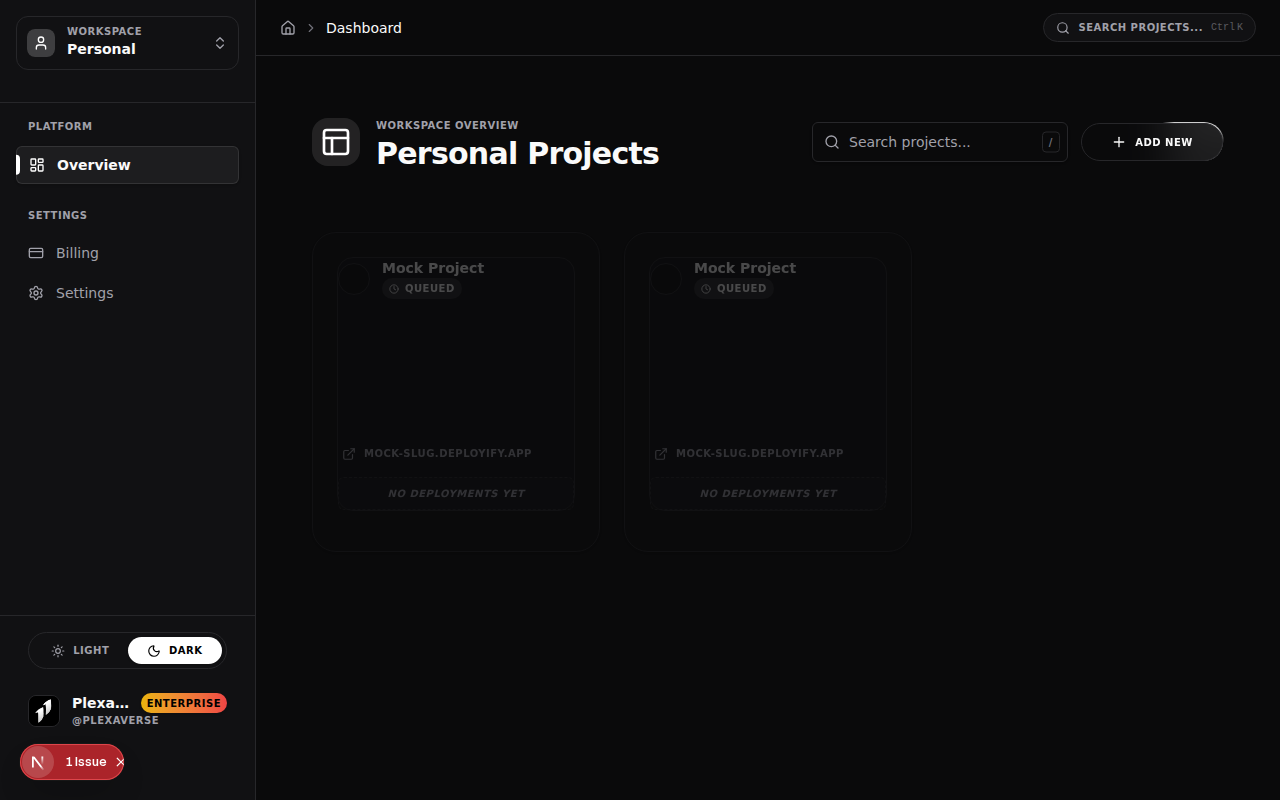
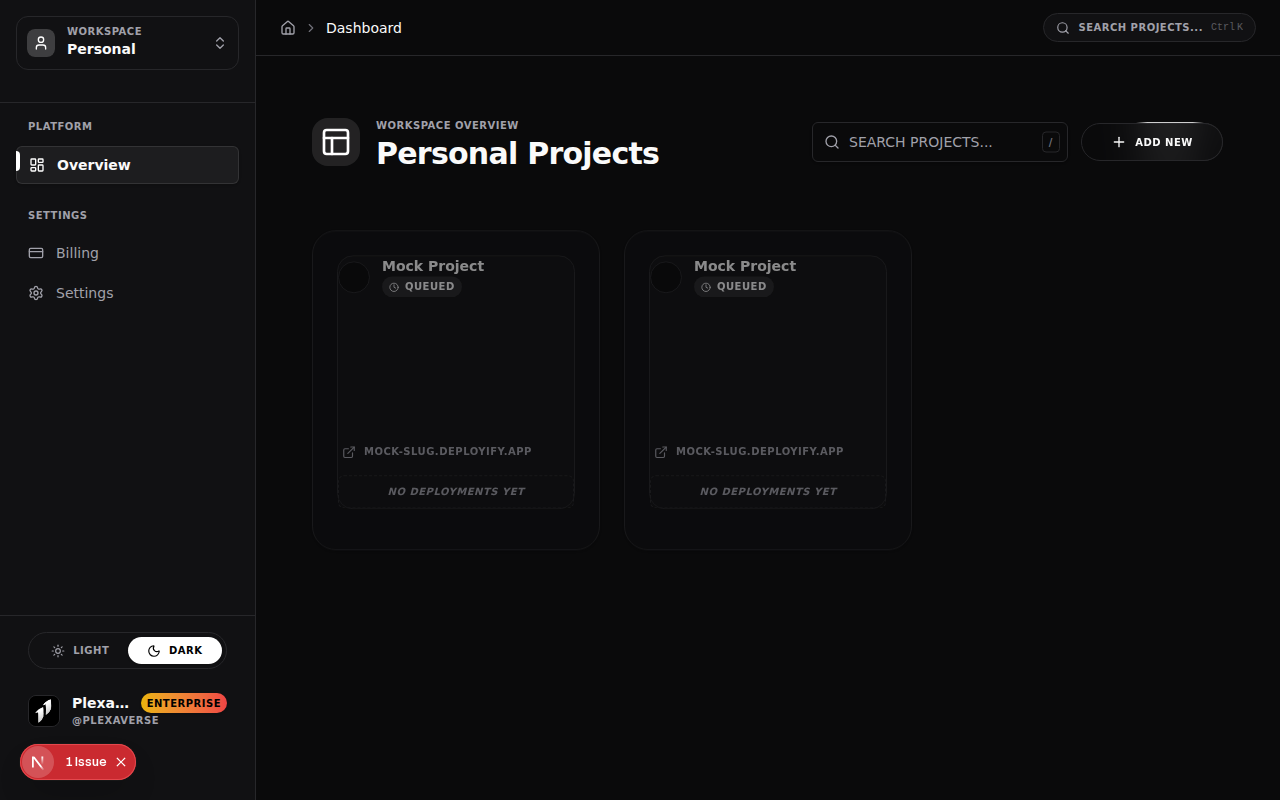
chore: standardize dashboard search placeholder typography and log updates (#342)
- Updated dashboard search input placeholder to 'SEARCH PROJECTS...' to align with the text-[10px] font-bold uppercase tracking-wider platform standard.
- Added venv to .gitignore.
- Logged changes in .agent/IMPROVEMENTS.md.

diff --git a/src/app/dashboard/page.tsx b/src/app/dashboard/page.tsx
@@ -101,7 +101,7 @@ export default function DashboardPage() {
                         <Input
                             ref={searchInputRef}
                             type="text"
-                            placeholder="Search projects..."
+                            placeholder="SEARCH PROJECTS..."
                             aria-label="Search projects"
                             value={searchQuery}
                             onChange={(e) => setSearchQuery(e.target.value)}

diff --git a/.agent/IMPROVEMENTS.md b/.agent/IMPROVEMENTS.md
@@ -318,3 +318,13 @@ Conducted a general maintenance and codebase verification pass to ensure continu
 
 ### Lead Developer Final Sign-off
 - As Lead Developer (Jules), I have reviewed the entire state of the codebase, resolved lingering environment dependencies, verified passing of all lint and test scripts, and formally logged this product as verified, completed, and 100% functional.
+
+## Progressive UI & Layout Standardization (Session 128)
+
+Conducted an audit and refinement of dashboard utilities to maintain strict adherence to the high-density technical aesthetic.
+
+### Dashboard Core UI Standardization
+- **Files Updated**:
+  - `src/app/dashboard/page.tsx`
+- **Standardization**:
+  - Updated the global dashboard search input placeholder text from `"Search projects..."` to the fully capitalized `"SEARCH PROJECTS..."`. This ensures that even tertiary utility elements conform to the technical metadata standard (`text-[10px] font-bold uppercase tracking-wider`).
